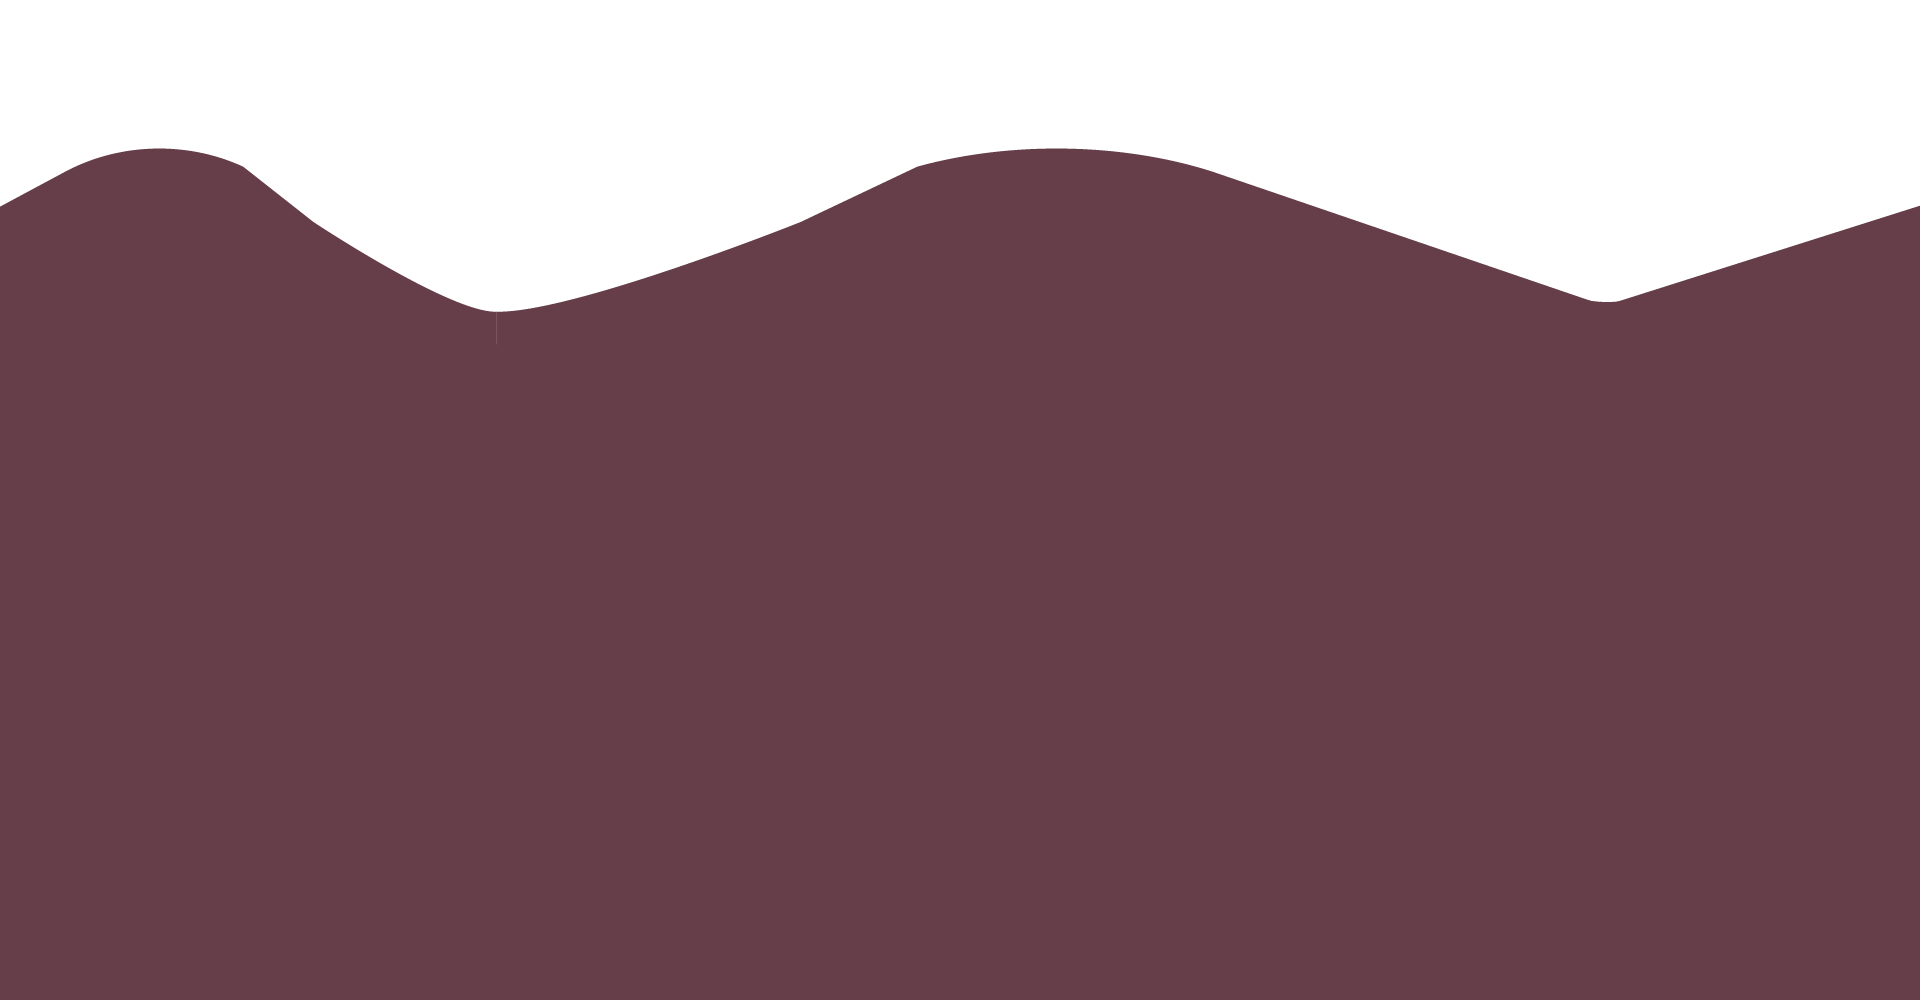
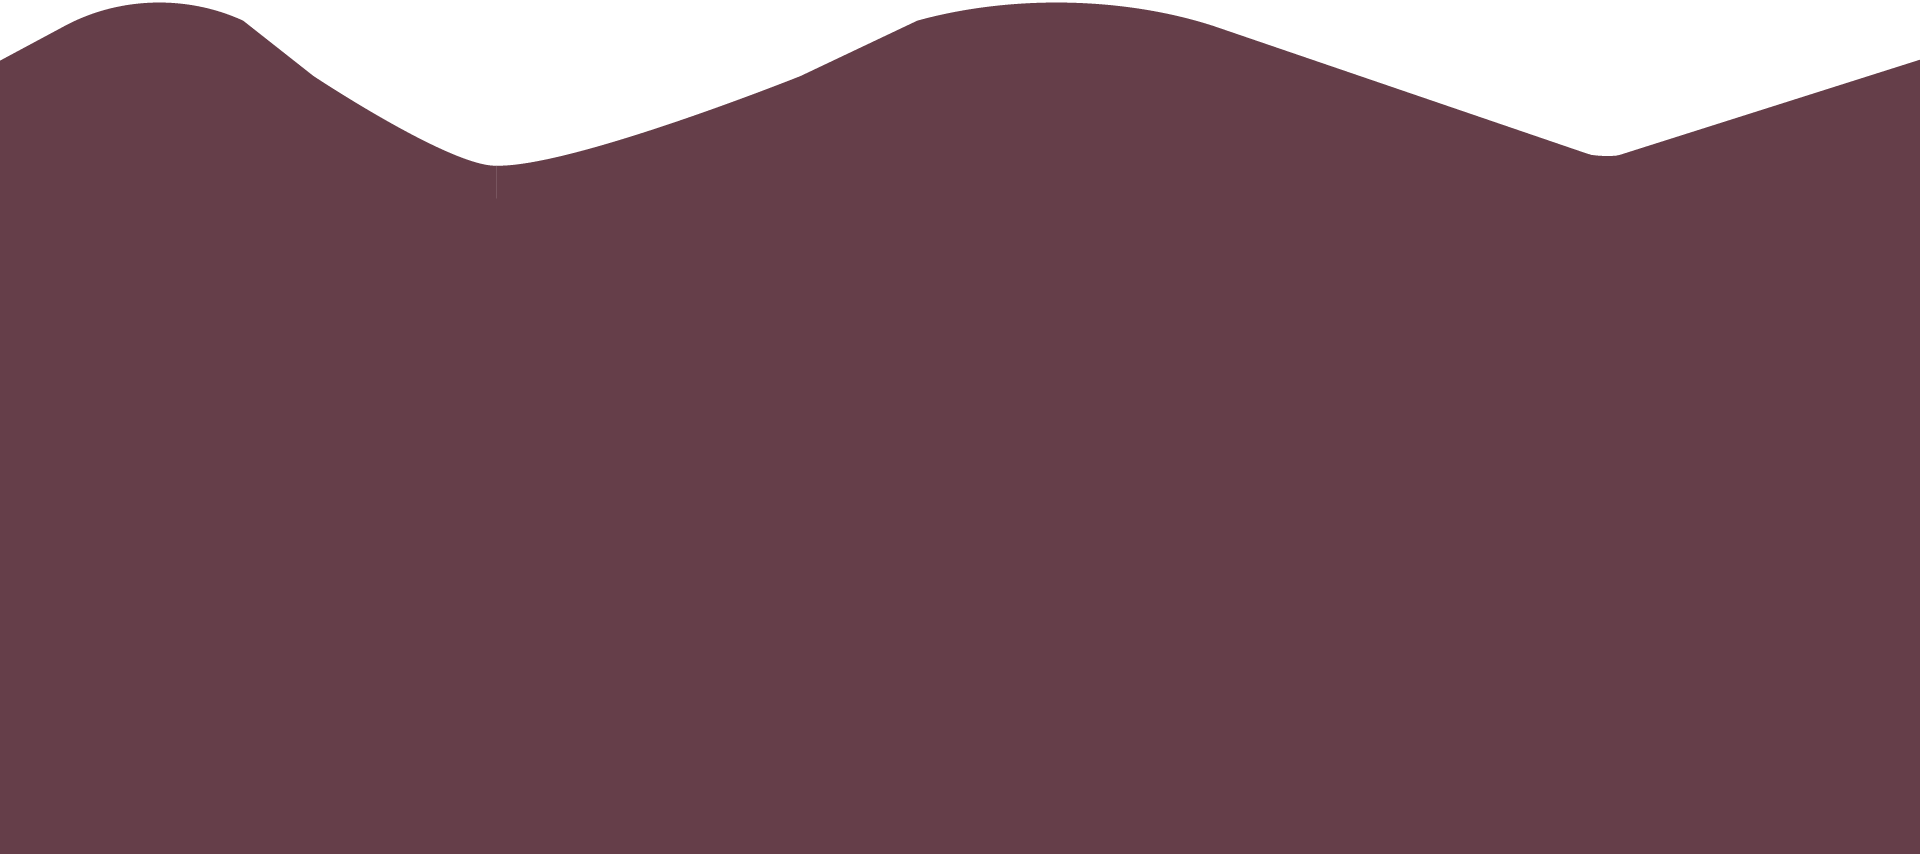
put in the javascript
from:
https://medium.com/@hamstu/recreating-the-firewatch-parallax-effect-2136
94d42f4e#.py9oe97hy

Changed region(s): [[0.0, 0.0, 1.0, 0.3349]]

diff --git a/parallax.js b/parallax.js
@@ -1,0 +1,65 @@
+var ParallaxManager, ParallaxPart;
+
+ParallaxPart = (function() {
+  function ParallaxPart(el) {
+    this.el = el;
+    this.speed = parseFloat(this.el.getAttribute('data-parallax-speed'));
+    this.maxScroll = parseInt(this.el.getAttribute('data-max-scroll'));
+  }
+
+  ParallaxPart.prototype.update = function(scrollY) {
+    if (scrollY > this.maxScroll) { return; }
+    var offset = -(scrollY * this.speed);
+    this.setYTransform(offset);
+  };
+
+  ParallaxPart.prototype.setYTransform = function(val) {
+    this.el.style.webkitTransform = "translate3d(0, " + val + "px, 0)";
+    this.el.style.MozTransform    = "translate3d(0, " + val + "px, 0)";
+    this.el.style.OTransform      = "translate3d(0, " + val + "px, 0)";
+    this.el.style.transform       = "translate3d(0, " + val + "px, 0)";
+    this.el.style.msTransform     = "translateY(" + val + "px)";
+  };
+
+  return ParallaxPart;
+
+})();
+
+ParallaxManager = (function() {
+  ParallaxManager.prototype.parts = [];
+
+  function ParallaxManager(elements) {
+    if (Array.isArray(elements) && elements.length) {
+      this.elements = elements;
+    }
+    if (typeof elements === 'object' && elements.item) {
+      this.elements = Array.prototype.slice.call(elements);
+    } else if (typeof elements === 'string') {
+      this.elements = document.querySelectorAll(elements);
+      if (this.elements.length === 0) {
+        throw new Error("Parallax: No elements found");
+      }
+      this.elements = Array.prototype.slice.call(this.elements);
+    } else {
+      throw new Error("Parallax: Element variable is not a querySelector string, Array, or NodeList");
+    }
+    for (var i in this.elements) {
+      this.parts.push(new ParallaxPart(this.elements[i]));
+    }
+    window.addEventListener("scroll", this.onScroll.bind(this));
+  }
+
+  ParallaxManager.prototype.onScroll = function() {
+    window.requestAnimationFrame(this.scrollHandler.bind(this));
+  };
+
+  ParallaxManager.prototype.scrollHandler = function() {
+    var scrollY = Math.max(window.pageYOffset, 0);
+    for (var i in this.parts) { this.parts[i].update(scrollY); }
+  };
+
+  return ParallaxManager;
+
+})();
+
+new ParallaxManager('.parallax-layer');

diff --git a/styles.css b/styles.css
@@ -45,7 +45,7 @@ body {
     background-size: 300px 150px;
   }
   .layer-4 {
-    top: -550px;
+    top: -500px;
     z-index: 15;
     background-image: url("layer4.png");
     background-size: 400px 208px;

diff --git a/index.html b/index.html
@@ -18,7 +18,7 @@
   </div>
 
   <div class="content">
-    <h1>This is parallax.</h1>
+    <h1>Website</h1>
   </div>
 
   <script src="parallax.js"></script>
